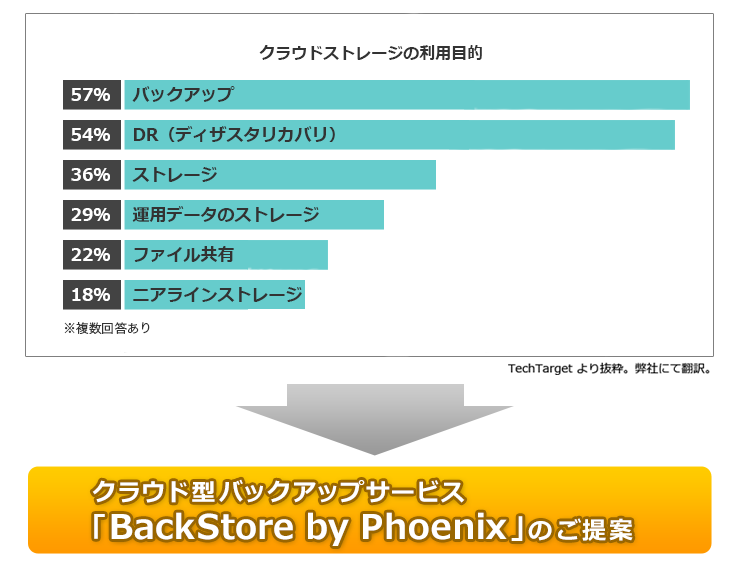
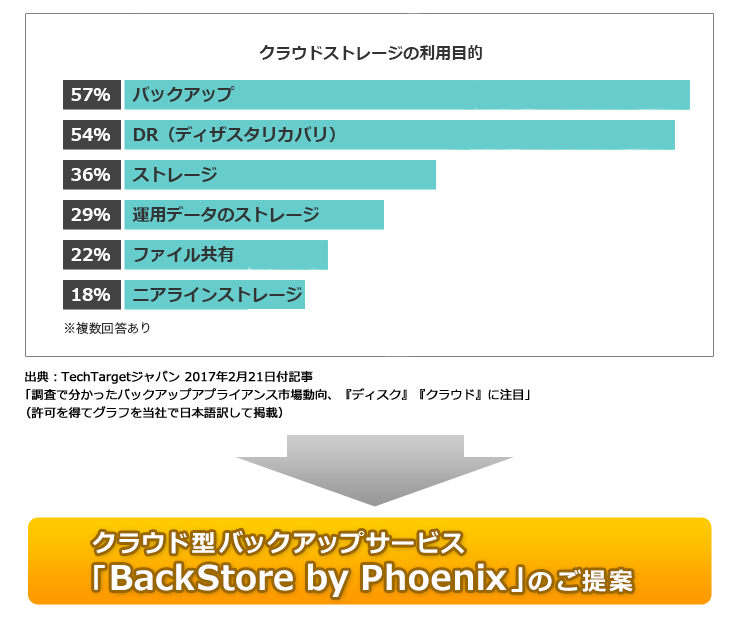
・img_02を修正 ・画像にリンクを追加

Changed region(s): [[0.0311, 0.0614, 0.9635, 0.9829], [0.0311, 0.0, 0.9635, 0.0307]]

diff --git a/src/services/other/cloud/index.html b/src/services/other/cloud/index.html
@@ -2,7 +2,7 @@
 layout: "services"
 global_menu: "services"
 description: "クラウド型バックアップサービス「Druva Phoenix」のご提案"
-keywords: "リモート,常駐,派遣契約,準委任契約,運用保守,リモート運用"
+keywords: "クラウド,常駐,派遣契約,準委任契約,運用保守,クラウド運用"
 title: "クラウド型バックアップサービス"
 categories:
   - "クラウド"
@@ -52,7 +52,7 @@ tags:
 			<p>クラウドを活用して、多様なバックアップのニーズを満たそうとする企業が増えています。併せて、クラウドにあるバックアップデータをより有効に活用したいとのニーズが高まっています。バックアップデータの主な利用目的は下表からも分かる通り「アーカイブ化」「災害復旧」「ストレージ化」となっており、守りのバックアップから、攻めのバックアップへ移行しつつあることがわかります。</p>
 			<div class="lightBox">
 			<figure>
-			<img src="/image/services/constrution/other/cloud/img_02.png">
+			<a href="http://techtarget.itmedia.co.jp/tt/news/1702/21/news02.html" target="_blank"><img src="/image/services/constrution/other/cloud/img_02.png"></a>
 			</figure>
 			</div>
 
